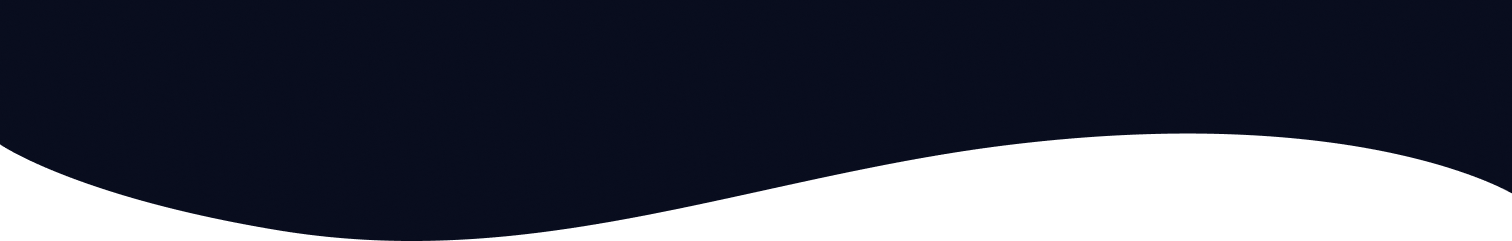
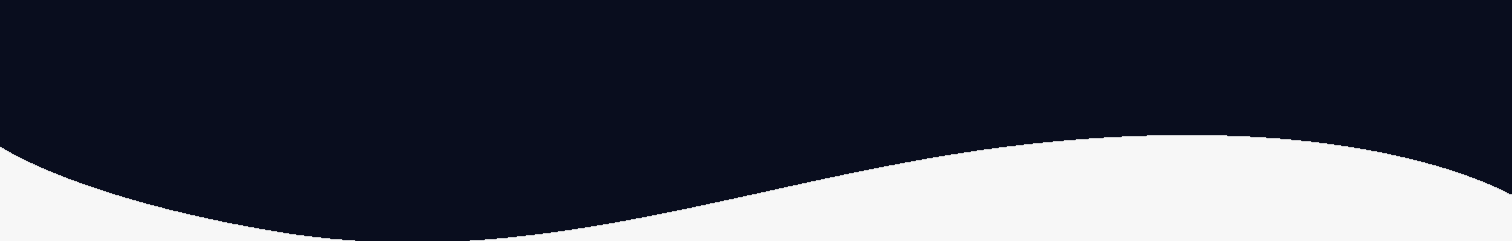
corrected invisible line issue

diff --git a/index.html b/index.html
@@ -1,26 +1,25 @@
 ---
 layout: default
 ---
-<!-- This site depends on a lot of things, but this whole page is the body of the website -->
-{% include hero.html %}
-<section class="about">
-  <div class="container">
 
+<!-- This site depends on a lot of things, but this whole page is the body of the website -->
+<div class="top-section">
+  {% include hero.html %}
+  <section class="about">
     <div class="container">
-      <h1>About</h1>
-      <div class="description">
-        <p>
-        {{ site.event.about.description | markdownify }}
-      </p>
+      <div class="container">
+        <h1>About</h1>
+        <div class="description">
+          <p>{{ site.event.about.description | markdownify }}</p>
+        </div>
       </div>
     </div>
-  </div>
-</section>
-<!-- hackathon tenants -->
-<section class="info">
-  <div class="container">
-    <div class="items row">
-      {% for section in site.event.info.sections %}
+  </section>
+  <!-- hackathon tenants -->
+  <section class="info">
+    <div class="container">
+      <div class="items row">
+        {% for section in site.event.info.sections %}
         <div class="col-xs-12 col-sm-12 col-md-4 text-center">
           <div class="item">
             <img src="{{ section.image }}" />
@@ -28,17 +27,14 @@ layout: default
             <p>{{ section.description }}</p>
           </div>
         </div>
-      {% endfor %}
+        {% endfor %}
+      </div>
     </div>
-  </div>
-</section>
-
-{% include schedule.html %}
-
-{% include sponsorPlaceHolder.html %}
-
-<section class="bottom-section">
-  {% include transition.html %}
-  
+  </section>
+  {% include schedule.html %} 
+  {% include sponsorPlaceHolder.html %}
+</div>
+<img src="images/transition.png" style="width: 100vw;" alt="" />
+<section class="fluid-container bottom-section" style="background-color: #f9f9f9;color: #000;">
   {% include faq.html %}
 </section>

diff --git a/css/original.css b/css/original.css
@@ -22,21 +22,39 @@
   font-family: "DM Sans";
   font-weight: 600;
 }
-
 body {
+    background-color: transparent !important;  
+}
+section,html, body {
+  overflow-x: hidden;
+  max-width: 100vw;
+  background-color: none;
+}
+
+/* two sides */
+.top-section {
   background: linear-gradient(
     180deg,
     #000000 0%,
     #090d1e 49.79%,
-    #090d1e 101.7%
+    rgb(9, 13, 30) 101.7%
   );
+  /* background: url(../images/background.svg) no-repeat center center fixed;
+  -webkit-background-size: cover;
+  -moz-background-size: cover;
+  -o-background-size: cover;
+  background-size: cover;
+  background-size: auto 100%;
+  background-repeat: no-repeat;
+  background-position: left top; */
   color: #f7f8fa;
 }
 
-section,html, body {
-  overflow-x: hidden;
-  max-width: 100vw;
+.bottom-section {
+  background-color: #F9F9F9;
+  color: #000000;
 }
+
 
 /*
  * Trust Badge
@@ -251,6 +269,8 @@ text-fill-color: transparent;
 .faq {
   padding: 100px 0;
   position: relative;
+  background-color: #f9f9f9;
+  color: #000000;
 }
 
 .faq h1 {

diff --git a/_includes/faq.html b/_includes/faq.html
@@ -1,14 +1,14 @@
 <!-- FAQ section -->
 <section class="faq">
   <div class="container">
-      <h1 class="text-start">Frequently Asked Questions</h1>
-      <div class="row">
-          {% for item in site.event.faq %}
-          <div class="question col-12 pb-4 col-md-6 pb-md-0">
-            <h2 class="question-gradient">{{ item.question }}</h2>
-            {{ item.answer | markdownify }}
-          </div>
-          {% endfor %}
+    <h1 class="text-start">Frequently Asked Questions</h1>
+    <div class="row">
+      {% for item in site.event.faq %}
+      <div class="question col-12 pb-4 col-md-6 pb-md-0">
+        <h2 class="question-gradient">{{ item.question }}</h2>
+        {{ item.answer | markdownify }}
       </div>
+      {% endfor %}
     </div>
-  </section>
+  </div>
+</section>

diff --git a/_layouts/default.html b/_layouts/default.html
@@ -1,16 +1,11 @@
 <!DOCTYPE html>
 <html>
   {% include head.html %}
-
   <body{% if page.custom_class %} class="{{ page.custom_class }}"{% endif %}>
     {% include badges.html %}
-
     {{ content }}
-
     {% include footer.html %}
-    
-
-    <script src="{{ '/js/jquery-1.11.3.js' | prepend: site.baseurl | prepend: site.url }}"></script>
-    <script src="{{ '/js/firebase.js' | prepend: site.baseurl | prepend: site.url }}"></script>
+    <script type="module" src="{{ '/js/jquery-1.11.3.js' | prepend: site.baseurl | prepend: site.url }}"></script>
+    <script type="module" src="{{ '/js/firebase.js' | prepend: site.baseurl | prepend: site.url }}"></script>
   </body>
 </html>

diff --git a/_includes/sponsorPlaceHolder.html b/_includes/sponsorPlaceHolder.html
@@ -1,4 +1,4 @@
-<section class="sponsors mb-5 pt-5">
+<section class="sponsors pb-5 pt-5">
     <div class="container border-bottom border-top border-2" style="border-color: #f9f9f9 !important; padding-bottom: 10%; padding-top: 10%">
         <div class="grid text-center">
             <h1 class="title">Interested in becoming a sponsor?</h1>

diff --git a/_includes/transition.html b/_includes/transition.html
@@ -1,3 +1,5 @@
-<section class="fluid-container p-0">
-    <img src="images/transition.svg" style="width: 100vw; background-color: #f9f9f9;height:auto; margin-top: 0px;" alt="" />
+<section class="fluid-container" style="
+overflow-x: visible;
+">
+    <img src="images/transition.png" style="width: 100vw;" alt="" />
 </section>

diff --git a/css/base.css b/css/base.css
@@ -3,10 +3,9 @@
     display: grid;
     grid-template-areas: 'col1 col2';
 } */
-
-.bottom-section {
-    background-color: #F9F9F9;
-    color: #000000;
+* {
+    border-radius: 0%;
+    border: none;
 }
 
 .schedule .small-subtitile {

diff --git a/_includes/schedule.html b/_includes/schedule.html
@@ -24,4 +24,5 @@
       {% endfor %}
 
     </div>
+  </div>
 </section>
